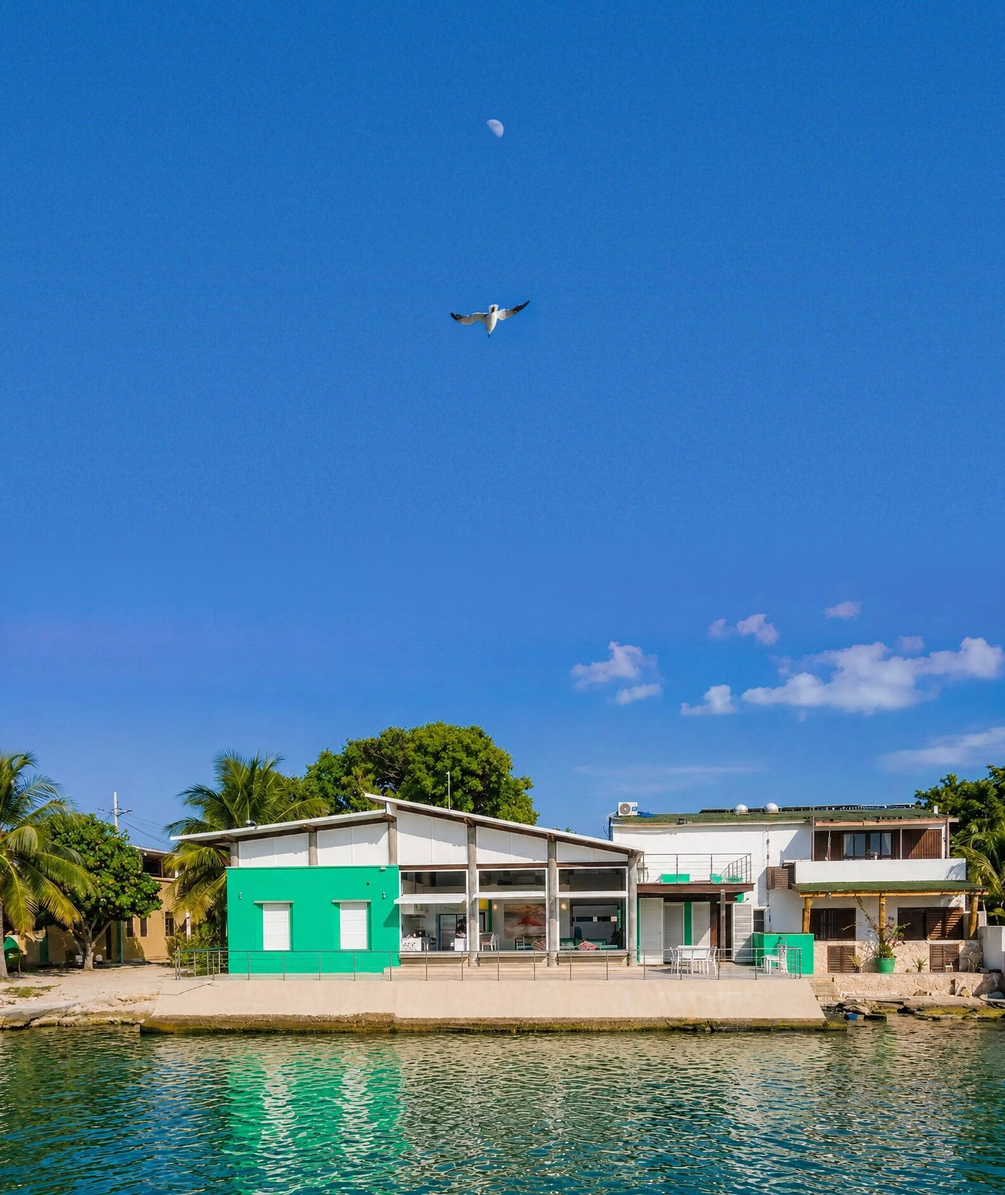
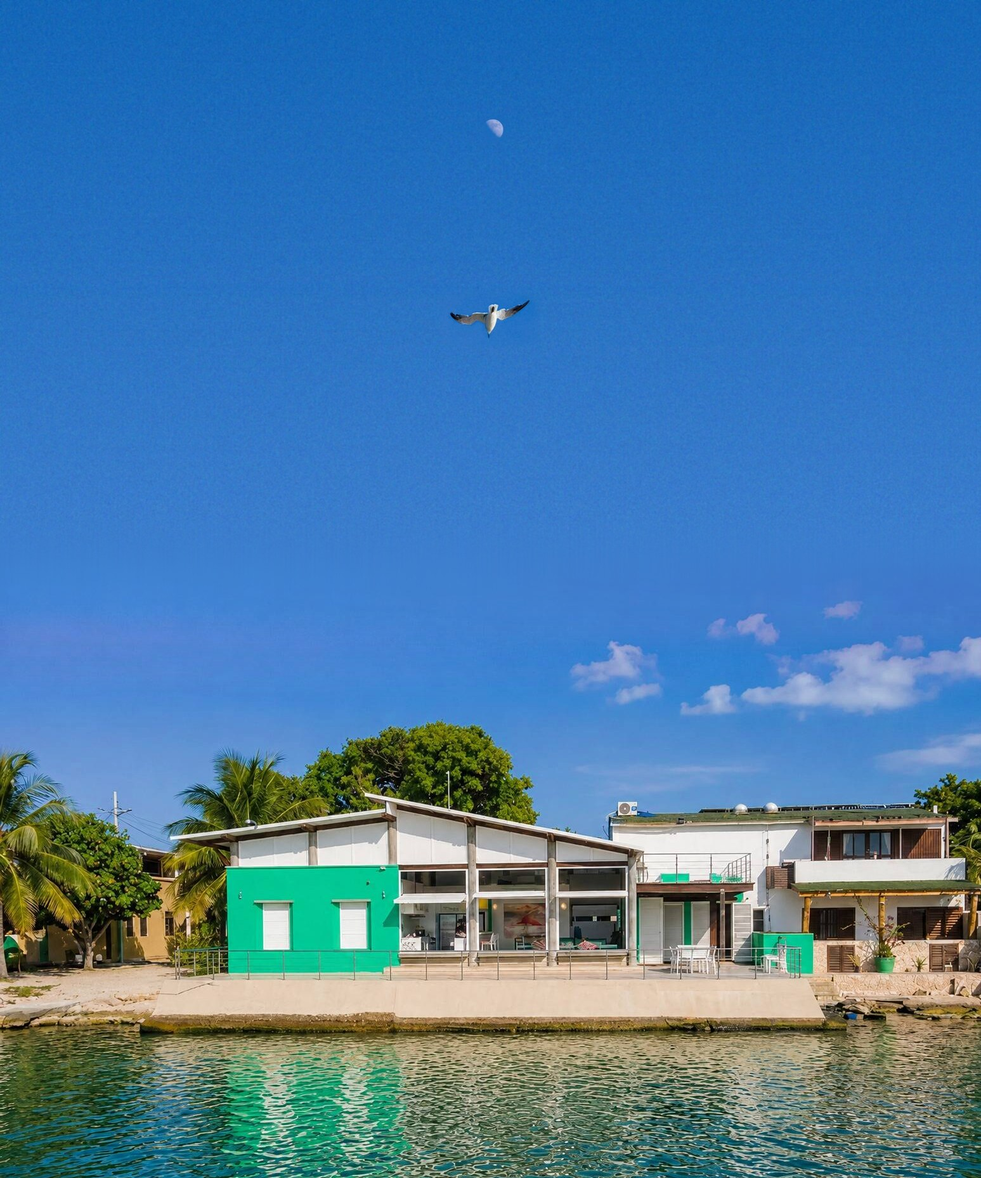
Frente a la casa cae la tarde y luego la noche (fotos de dia/tarde/noche del proyecto viejo alineadas a la misma toma), con un leve acercamiento

Changed region(s): [[0.0, 0.4995, 1.0, 1.0], [0.4344, 0.2497, 0.5275, 0.2809], [0.4654, 0.0936, 0.5275, 0.1249]]

diff --git a/index.html b/index.html
@@ -50,12 +50,16 @@ a{color:inherit;text-decoration:none}
 .reservar.guardado{opacity:0;pointer-events:none;transform:translateX(-50%) translateY(14px)}
 
 /* ---------- hero: la pared con el ventanal ---------- */
-.hero{height:480vh;position:relative}
+.hero{height:680vh;position:relative}
 .escena{position:sticky;top:0;height:100vh;height:100svh;overflow:hidden}
 .cabina{position:absolute;inset:0;z-index:0;background:#1c1b1a}
 .mar{position:absolute;inset:0;z-index:1;overflow:hidden}
 /* una sola foto alta: el cielo con la gaviota arriba y la casa abajo; la camara baja de una a otra */
-.mar-foto{position:absolute;left:50%;top:0;width:max(100vw,calc(185svh * .8408));height:auto;max-width:none;transform:translateX(-50%);will-change:transform}
+.mar-foto{position:absolute;left:50%;top:0;width:max(100vw,calc(185svh * .8326));transform:translateX(-50%);will-change:transform}
+.mar-zoom{position:relative;transform-origin:50% 100%;will-change:transform}
+.mar-zoom img{display:block;width:100%;height:auto;max-width:none}
+/* tarde y noche: la misma toma de la fachada, alineada encima del tramo de la casa */
+.mar-zoom .capa{position:absolute;left:0;top:47.955%;height:52.045%;opacity:0;will-change:opacity}
 /* la ventana recortada sobre un muro gris oscuro parejo; se escala desde el centro del vano */
 .pared{position:absolute;inset:0;z-index:3;background:#1c1b1a;display:grid;place-items:center;transform-origin:var(--hx) var(--hy);will-change:transform,opacity}
 .ventana{height:62svh;width:auto;max-width:none}
@@ -143,7 +147,7 @@ a{color:inherit;text-decoration:none}
   .nav-links,.nav-der{display:none}
   .nav-mark{justify-self:start}
   .nav-gal{display:block;justify-self:end;font-size:12px;letter-spacing:.14em;text-transform:uppercase}
-  .hero{height:430vh}
+  .hero{height:620vh}
   .frase{font-size:clamp(30px,8.6vw,46px)}
   .frase.izq{left:20px;top:11vh}
   .frase.der{display:none}
@@ -286,7 +290,11 @@ setTimeout(function(){
   <section class="hero" aria-label="Casa Verde">
     <div class="escena">
       <div class="cabina"></div>
-      <div class="mar"><img class="mar-foto" id="marFoto" src="img/cielo-casa.jpg" width="1584" height="1884" alt="Cielo con una gaviota y la luna sobre la fachada de Casa Verde frente al agua"></div>
+      <div class="mar"><div class="mar-foto" id="marFoto"><div class="mar-zoom" id="marZoom">
+        <img src="img/cielo-casa.jpg" width="1547" height="1858" alt="Cielo con una gaviota y la luna sobre la fachada de Casa Verde frente al agua">
+        <img class="capa" id="capaTarde" src="img/atardecer.jpg" width="1547" height="967" alt="" aria-hidden="true">
+        <img class="capa" id="capaNoche" src="img/noche.jpg" width="1547" height="967" alt="" aria-hidden="true">
+      </div></div></div>
       <div class="pared" id="pared"><img class="ventana" id="ventana" src="img/ventana.jpg" width="965" height="1649" alt="Ventana de una habitación con celosías abiertas hacia la playa"></div>
       <div class="tipo" id="tipo">
         <h1 class="frase izq">Despierta<span class="difusa">frente al mar</span></h1>
@@ -442,6 +450,7 @@ setTimeout(function(){
   var ventana = document.getElementById('ventana');
 
   var pared = document.getElementById('pared'), marFoto = document.getElementById('marFoto');
+  var marZoom = document.getElementById('marZoom'), capaTarde = document.getElementById('capaTarde'), capaNoche = document.getElementById('capaNoche');
   var tipo = document.getElementById('tipo'), meta = document.getElementById('meta'), marca = document.getElementById('marca');
   var g = {k0:1, kMax:1, cx:0, cy:0, hw:0, hh:0};
   var mar = document.querySelector('.mar');
@@ -475,15 +484,20 @@ setTimeout(function(){
     trigger: '.hero', start: 'top top', end: 'bottom bottom', scrub: .6,
     onUpdate: function(self){
       var p = self.progress;
-      var a = gsap.utils.clamp(0, 1, (p - .06) / .44);
+      var a = gsap.utils.clamp(0, 1, (p - .04) / .32);
       var s = a * a * a * (a * (a * 6 - 15) + 10);     /* smootherstep: arranca y llega suave */
       pintar(s);
       /* por la ventana se ve el cielo con la gaviota; ya afuera, la camara baja hasta la casa */
-      var q = gsap.utils.clamp(0, 1, (p - .55) / .38);
+      var q = gsap.utils.clamp(0, 1, (p - .40) / .22);
       q = q * q * (3 - 2 * q);
       /* en telefono la foto se recorta a los lados: se centra en la parte verde y la sala de la casa */
       gsap.set(marFoto, {xPercent: innerWidth <= 860 ? -41 : -50, x: 0, transformOrigin: '50% 0%', scale: 1.18 - .18 * s,
         y: -q * Math.max(0, marFoto.offsetHeight - innerHeight)});
+      /* ya frente a la casa: se acerca un poco y cae la tarde, luego la noche */
+      var z = gsap.utils.clamp(0, 1, (p - .60) / .12);
+      gsap.set(marZoom, {scale: 1 + (innerWidth <= 860 ? .26 : .13) * z * z * (3 - 2 * z)});
+      gsap.set(capaTarde, {opacity: gsap.utils.clamp(0, 1, (p - .72) / .1)});
+      gsap.set(capaNoche, {opacity: gsap.utils.clamp(0, 1, (p - .85) / .1)});
       var sale = gsap.utils.clamp(0, 1, (p - .03) / .26);
       gsap.set(tipo, {opacity: 1 - sale, filter: 'blur(' + (sale * 18) + 'px)'});
       gsap.set(meta, {opacity: 1 - sale, y: sale * 26});
